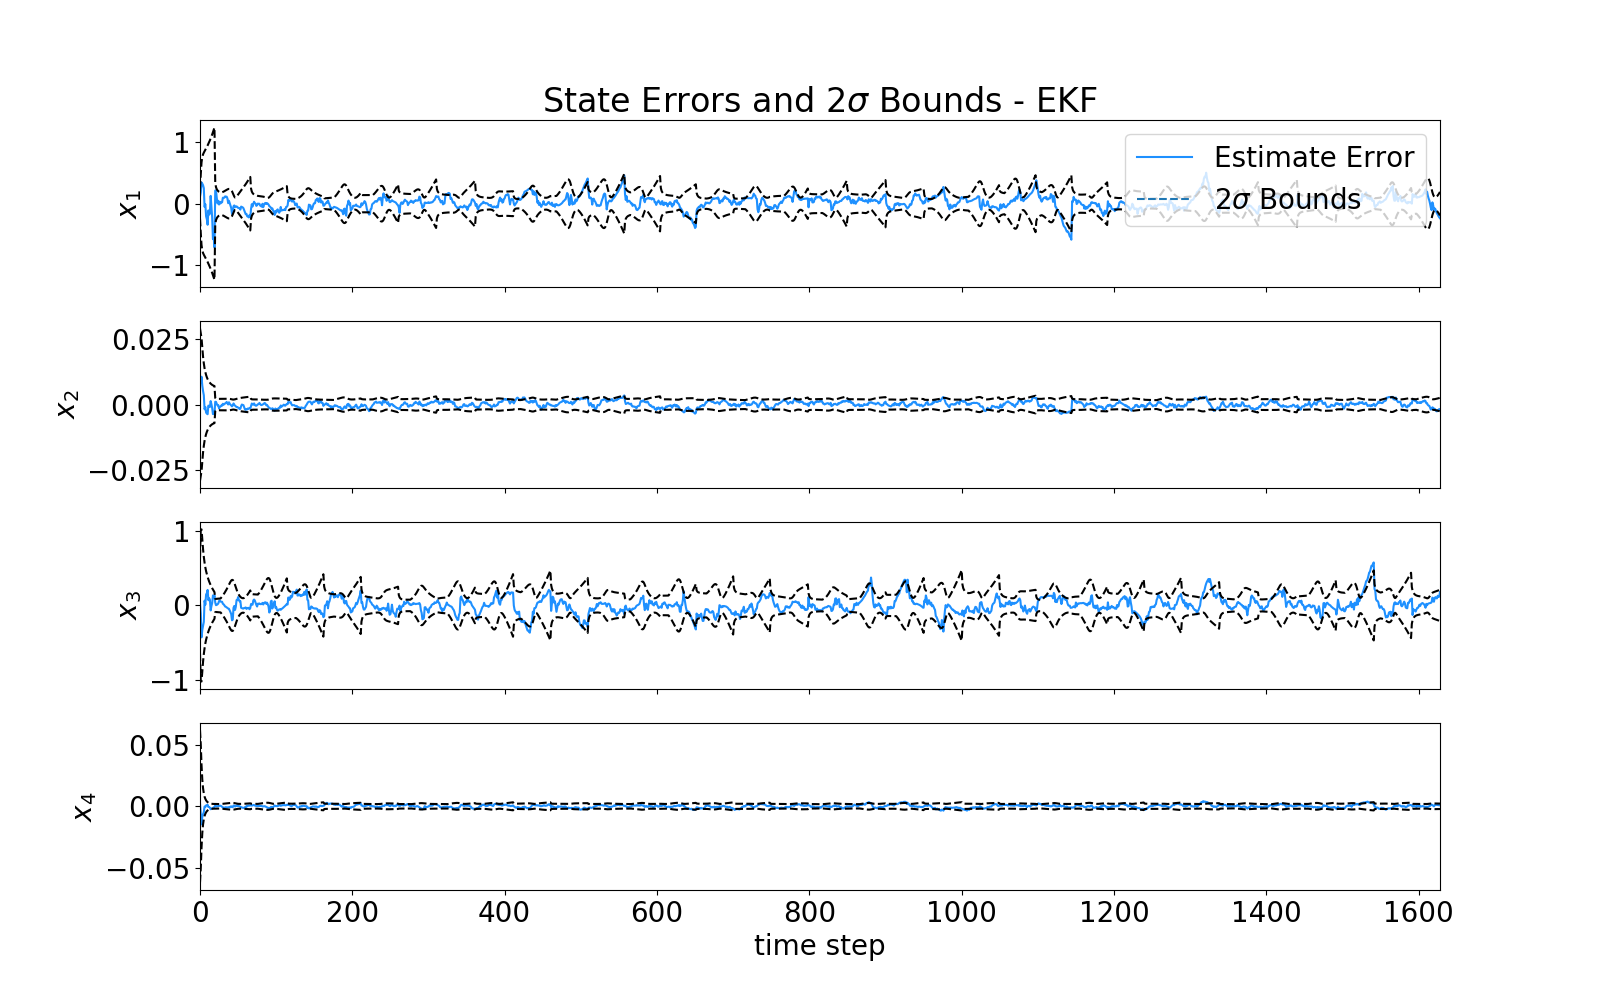
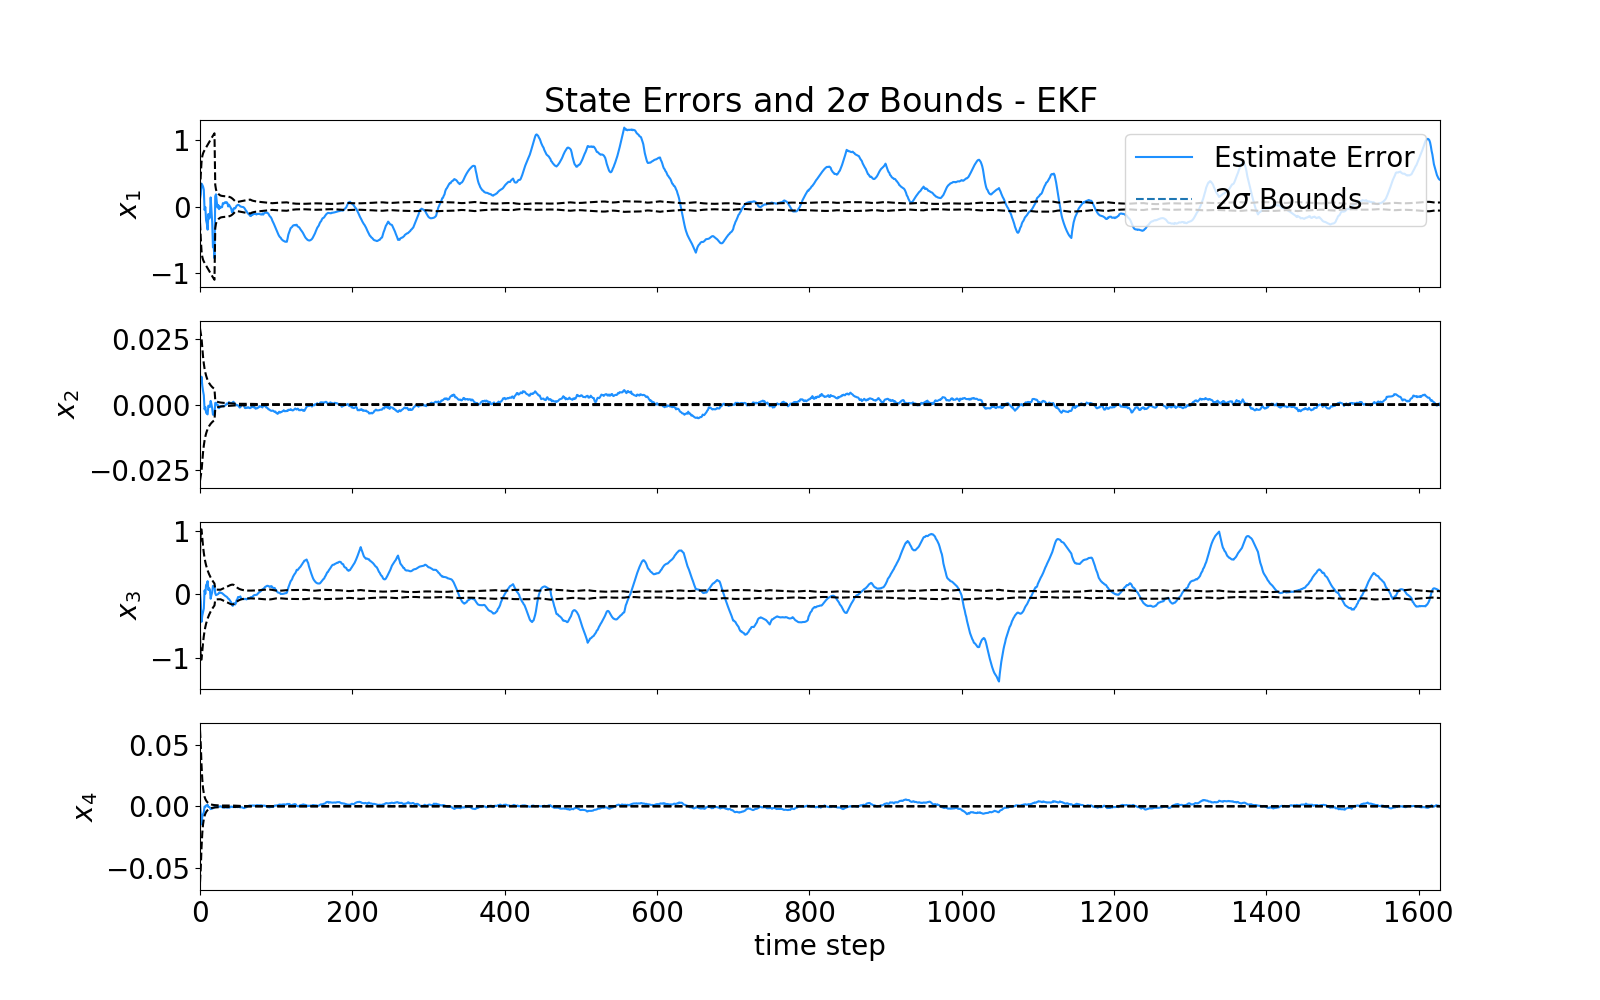
Beefed up EKF tuning section of report

diff --git a/Report/main.tex b/Report/main.tex
@@ -198,11 +198,26 @@ Figure \ref{fig:lkf_est} shows the rapidly deriorating estimate error in the LKF
 \subsubsection{NEES and NIS Tests}
 The following are results of NEES and NIS chi-square tests for an implementation of the LKF. 
 In the following figures, we plot NEES and NIS values from the filter at time k, averaged over N simulated trajectories. 
+The equations for a given NEES and NIS equations at a time $k$ is given by Equations \ref{eq:NEES} and \ref{eq:NIS}, respectively.
+\begin{equation}
+	\epsilon_{x,k} = e^T_{x,k} (P^+_k)^{-1} e_{x,k},
+	\quad \text{where} \quad
+	e_{x,k} = x_k - \hat{x}^+_k
+	\label{eq:NEES}
+\end{equation}
+\begin{equation}
+	\epsilon_{y,k} = e^T_{y,k} (S_k)^{-1} e_{y,k},
+	\quad \text{where} \quad
+	e_{y,k} = y_k - \hat{y}^+_k
+	\label{eq:NIS}
+\end{equation}
 At each time step, the NEES and NIS values are expected to fall into 4 (NEES) or 3 (NIS) degree of freedom $\mathcal{X}^2$ distributions. 
 As such, we expect values to fall within some range of the expecation of these distributions. 
 For this study, we've chosen 95\% confidence bounds, which are denoted with the dotted black lines. 
+
 The filter was tuned by adjusting the filter's knowledge of process noise in the system until the simulations reliably generated NEES and NIS results within the confidence bounds at least 95\% of the time. 
 Note that in the NEES/NIS test below, only a time span of $k\ \epsilon\ [0, 150]$ is shown due to the LKF's poor performance further into the orbit. 
+Additionally, note that $N$ was chosen to be 10 for the purpose of minimizing computational time, while still conveying the information gathered from these tests. 
 
 In this first iteration of the tuning process, the Kalman filter was initialized with an internal (guessed) process noise of $Q_{KF} = 10^{-6} \cdot I_{2 x 2}$. 
 The results of this test can be seen in Figure \ref{fig:neesnis_lkf_Qbig}. 
@@ -240,9 +255,10 @@ While neither is perfect (due to the inherent ineptness of the LKF to this orbit
 \subsubsection{LKF Tuning Conclusions}
 It should be noted that this process outlined above can be an automated process that begins by hopping between very large and very small guesses of $Q_{KF}$ and narrowing in until the ``best" performance is achieved. 
 The specific definition of ``best" performance may be defined by the user of the program who is performing the tuning and does not necessarily represent an absolute optimization. 
+However, since the LKF was shown to perform poorly for this orbit determination problem given this mild initial perturbation, much human intervention was required to assert the reliability of the results. 
 
-The findings in Section \ref{sec: Part I} indicated that the linearized dynamics used in the LFK become invalid as small initial perturbations eventually cause large deviations from the nominal trajectory. 
-Figures \ref{fig:neesnis_lkf_Qbig} - \ref{fig:neesnis_lkf} corroborate these findings, and solidify our understanding of where the LKF is most capable, for small perturbations near the nominal trajectory.  
+Overall, as the findings findings in Section \ref{sec: Part I} indicated, the linearized dynamics used in the LFK become invalid as small initial perturbations eventually cause large deviations from the nominal trajectory. 
+Figures \ref{fig:neesnis_lkf_Qbig} - \ref{fig:neesnis_lkf} corroborate these findings, and solidify our understanding of where the LKF is most capable: for small perturbations near the nominal trajectory.  
 
 
 \subsection{The Extended Kalman Filter}
@@ -265,13 +281,37 @@ The EKF, in contrast with the LKF, is much more capable of tracking the perturbe
 
 
 \subsubsection{NEES and NIS Tests}
-Figure \ref{fig:neesnis_ekf} shows the NEES and NIS results for the EKF.
-These results were generated using the same noisey trajectories and measurements as used for the LKF. 
+Similar to before with the LKF, the EKF can be tuned by finding a $Q_{KF}$ that accurately models the actual process noise in the system. 
+This is again done by starting with initial high and low magnitudes of $Q_{KF}$ and narrowing in based on the apparent bias n the NEES and NIS values. 
+Note that, for all of the following tuning EKF operations, the results were generated using the same noisey trajectories and measurements as used before for the LKF. 
 
+Figure \ref{fig:neesnis_ekf_Qbig} shows NEES and NIS results for the EKF when guessing a processes noise of $Q_{KF} = 10^{-6} \cdot I_{2 x 2}$. 
+Note that it is apparent from this test that the guessed $Q_{KF}$ here is too big since the NEES and NIS values are both biased low in the confidence intervals. 
+The filter in this case can be seen to be pessimistic, as it does not trust its estimate. 
+\begin{figure}[H]
+	\centering
+	\includegraphics[width=\textwidth]{./Figures/NEESNIS_ekf_N10Q1.0E-06.png}
+	\caption{NEES and NIS chi-square results over time for N = 10 simulated trajectories and $Q_{KF} = 10^{-6} \cdot I_{2 x 2}$.}
+	\label{fig:neesnis_ekf_Qbig}
+\end{figure}
+
+
+Decreasing the guessed process noise to $Q_{KF}= 10^{-12} \cdot I_{2 x 2}$ yields the results seen in Figure \ref{fig:neesnis_ekf_Qsmall} in which the filter is smug. 
+It is seen here trusting its estimate too much, and latching on to a trajectory that is not the truth data. 
+\begin{figure}[H]
+	\centering
+	\includegraphics[width=\textwidth]{./Figures/NEESNIS_ekf_N10Q1.0E-12.png}
+	\caption{NEES and NIS chi-square results over time for N = 10 simulated trajectories and $Q_{KF} = 10^{-12} \cdot I_{2 x 2}$.}
+	\label{fig:neesnis_ekf_Qsmall}
+\end{figure}
+
+
+Here in Figure \ref{fig:neesnis_ekf}, the NEES and NIS results for the EKF are right spot on in terms of number of NEES and NIS values lying within the confidence bounds. 
+This demonstrates a well-tuned filter. 
 \begin{figure}[H]
 	\centering
 	\includegraphics[width=\textwidth]{./Figures/NEESNIS_ekf_N10Q1.0E-09.png}
-	\caption{NEES and NIS chi-square results over time for N= \hl{N} simulated trajectories.}
+	\caption{NEES and NIS chi-square results over time for N = 10 simulated trajectories and $Q_{KF} = 10^{-9} \cdot I_{2 x 2}$.}
 	\label{fig:neesnis_ekf}
 \end{figure}
 
@@ -344,8 +384,12 @@ The results of an implementation the UKf on the data set used for previous tests
 %%%%%%%%%%%%%%%%%%%%%%%%%%%%%%%%% APPENDIX %%%%%%%%%%%%%%%%%%%%%%%%%%%%%%%%%
 \newpage
 \section*{Appendix}
-Attached here is the code used for the numerical analysis and plotting entailed in this project.
+%Attached here is the code used for the numerical analysis and plotting entailed in this project.
 %\lstinputlisting{../main.m}
+
+
+
+
 
 
 \end{document}
